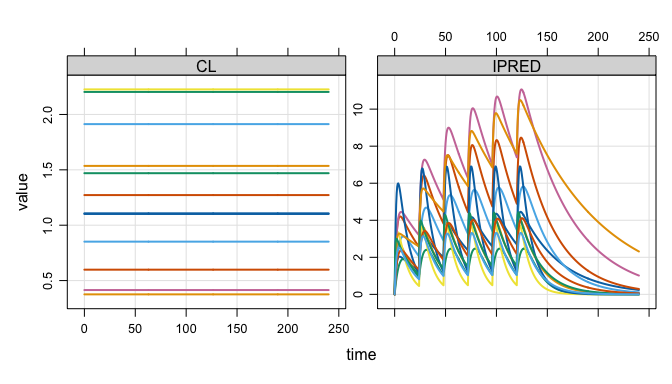
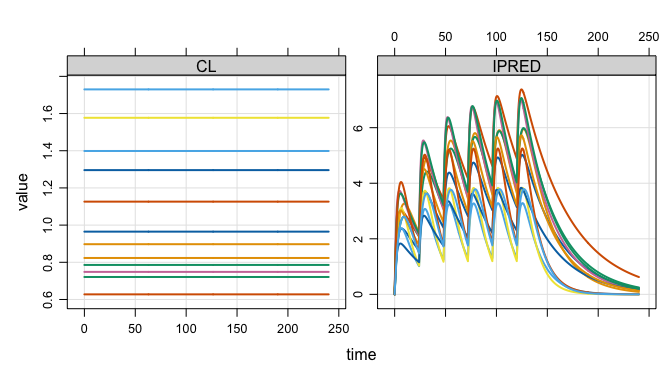
clean up doc

diff --git a/README.md b/README.md
@@ -60,15 +60,15 @@ out
 . Dim  : 1.4M x 4
 . Files: 1 [13.2 Mb]
 . Owner: yes (gc)
-.     ID time       CL     IPRED
-. 1:   1  0.0 1.107176 0.0000000
-. 2:   1  0.0 1.107176 0.0000000
-. 3:   1  0.5 1.107176 0.6880729
-. 4:   1  1.0 1.107176 1.1603151
-. 5:   1  1.5 1.107176 1.4818053
-. 6:   1  2.0 1.107176 1.6980308
-. 7:   1  2.5 1.107176 1.8407855
-. 8:   1  3.0 1.107176 1.9322914
+.     ID time        CL     IPRED
+. 1:   1  0.0 0.9648573 0.0000000
+. 2:   1  0.0 0.9648573 0.0000000
+. 3:   1  0.5 0.9648573 0.5279033
+. 4:   1  1.0 0.9648573 0.9509657
+. 5:   1  1.5 0.9648573 1.2886638
+. 6:   1  2.0 0.9648573 1.5568730
+. 7:   1  2.5 0.9648573 1.7685336
+. 8:   1  3.0 0.9648573 1.9341928
 ```
 
 ## Very lightweight simulation output object
@@ -79,14 +79,14 @@ disk.
 
 ``` r
 basename(out$files)
-. [1] "mrgsims-ds-106a418049b33.parquet"
+. [1] "mrgsims-ds-136b57a594b2d.parquet"
 ```
 
 This means there is almost nothing inside the object itself
 
 ``` r
 lobstr:::obj_size(out)
-. 293.54 kB
+. 293.65 kB
 
 dim(out)
 . [1] 1446000       4
@@ -124,23 +124,23 @@ head(out)
 . # A tibble: 6 × 4
 .      ID  time    CL IPRED
 .   <dbl> <dbl> <dbl> <dbl>
-. 1     1   0    1.11 0    
-. 2     1   0    1.11 0    
-. 3     1   0.5  1.11 0.688
-. 4     1   1    1.11 1.16 
-. 5     1   1.5  1.11 1.48 
-. 6     1   2    1.11 1.70
+. 1     1   0   0.965 0    
+. 2     1   0   0.965 0    
+. 3     1   0.5 0.965 0.528
+. 4     1   1   0.965 0.951
+. 5     1   1.5 0.965 1.29 
+. 6     1   2   0.965 1.56
 
 tail(out)
 . # A tibble: 6 × 4
 .      ID  time    CL IPRED
 .   <dbl> <dbl> <dbl> <dbl>
-. 1  3000  238. 0.929 0.389
-. 2  3000  238  0.929 0.385
-. 3  3000  238. 0.929 0.381
-. 4  3000  239  0.929 0.376
-. 5  3000  240. 0.929 0.372
-. 6  3000  240  0.929 0.368
+. 1  3000  238. 0.550 0.191
+. 2  3000  238  0.550 0.188
+. 3  3000  238. 0.550 0.184
+. 4  3000  239  0.550 0.181
+. 5  3000  240. 0.550 0.178
+. 6  3000  240  0.550 0.175
 
 dim(out)
 . [1] 1446000       4
@@ -154,16 +154,16 @@ as_tibble(out)
 . # A tibble: 1,446,000 × 4
 .       ID  time    CL IPRED
 .    <dbl> <dbl> <dbl> <dbl>
-.  1     1   0    1.11 0    
-.  2     1   0    1.11 0    
-.  3     1   0.5  1.11 0.688
-.  4     1   1    1.11 1.16 
-.  5     1   1.5  1.11 1.48 
-.  6     1   2    1.11 1.70 
-.  7     1   2.5  1.11 1.84 
-.  8     1   3    1.11 1.93 
-.  9     1   3.5  1.11 1.99 
-. 10     1   4    1.11 2.02 
+.  1     1   0   0.965 0    
+.  2     1   0   0.965 0    
+.  3     1   0.5 0.965 0.528
+.  4     1   1   0.965 0.951
+.  5     1   1.5 0.965 1.29 
+.  6     1   2   0.965 1.56 
+.  7     1   2.5 0.965 1.77 
+.  8     1   3   0.965 1.93 
+.  9     1   3.5 0.965 2.06 
+. 10     1   4   0.965 2.16 
 . # ℹ 1,445,990 more rows
 ```
 
@@ -189,16 +189,16 @@ as_duckdb_ds(out)
 . # Database: DuckDB 1.4.4 [kyleb@Darwin 24.6.0:R 4.5.3/:memory:]
 .       ID  time    CL IPRED
 .    <dbl> <dbl> <dbl> <dbl>
-.  1     1   0    1.11 0    
-.  2     1   0    1.11 0    
-.  3     1   0.5  1.11 0.688
-.  4     1   1    1.11 1.16 
-.  5     1   1.5  1.11 1.48 
-.  6     1   2    1.11 1.70 
-.  7     1   2.5  1.11 1.84 
-.  8     1   3    1.11 1.93 
-.  9     1   3.5  1.11 1.99 
-. 10     1   4    1.11 2.02 
+.  1     1   0   0.965 0    
+.  2     1   0   0.965 0    
+.  3     1   0.5 0.965 0.528
+.  4     1   1   0.965 0.951
+.  5     1   1.5 0.965 1.29 
+.  6     1   2   0.965 1.56 
+.  7     1   2.5 0.965 1.77 
+.  8     1   3   0.965 1.93 
+.  9     1   3.5 0.965 2.06 
+. 10     1   4   0.965 2.16 
 . # ℹ more rows
 ```
 
@@ -232,15 +232,15 @@ collect(dd)
 .     time  Mean     n
 .    <dbl> <dbl> <int>
 .  1   0    0     6000
-.  2   0.5  1.12  3000
-.  3   1    1.82  3000
-.  4   1.5  2.27  3000
-.  5   2    2.58  3000
-.  6   2.5  2.79  3000
-.  7   3    2.94  3000
-.  8   3.5  3.03  3000
-.  9   4    3.09  3000
-. 10   4.5  3.12  3000
+.  2   0.5  1.08  3000
+.  3   1    1.77  3000
+.  4   1.5  2.23  3000
+.  5   2    2.55  3000
+.  6   2.5  2.77  3000
+.  7   3    2.91  3000
+.  8   3.5  3.01  3000
+.  9   4    3.08  3000
+. 10   4.5  3.11  3000
 . # ℹ 471 more rows
 ```
 
@@ -268,20 +268,20 @@ out2
 . Dim  : 14.5M x 4
 . Files: 10 [131.8 Mb]
 . Owner: yes (gc)
-.     ID time       CL     IPRED
-. 1:   1  0.0 0.711861 0.0000000
-. 2:   1  0.0 0.711861 0.0000000
-. 3:   1  0.5 0.711861 0.6391556
-. 4:   1  1.0 0.711861 1.1436153
-. 5:   1  1.5 0.711861 1.5403107
-. 6:   1  2.0 0.711861 1.8508041
-. 7:   1  2.5 0.711861 2.0923592
-. 8:   1  3.0 0.711861 2.2787975
+.     ID time        CL     IPRED
+. 1:   1  0.0 0.4087804 0.0000000
+. 2:   1  0.0 0.4087804 0.0000000
+. 3:   1  0.5 0.4087804 0.1660721
+. 4:   1  1.0 0.4087804 0.3228486
+. 5:   1  1.5 0.4087804 0.4707932
+. 6:   1  2.0 0.4087804 0.6103471
+. 7:   1  2.5 0.4087804 0.7419299
+. 8:   1  3.0 0.4087804 0.8659402
 ```
 
 ``` r
 lobstr::obj_size(out2)
-. 296.64 kB
+. 296.81 kB
 ```
 
 ## Files on disk are automagically managed
@@ -291,11 +291,11 @@ All `arrow` files are stored in the `tempdir()` in parquet format
 ``` r
 list_temp()
 . 11 files [145 Mb]
-. - mrgsims-ds-106a418049b33.parquet
-. - mrgsims-ds-106e330367f29.parquet
+. - mrgsims-ds-136b57a594b2d.parquet
+. - mrgsims-ds-136f93697cf0f.parquet
 .    ...
-. - mrgsims-ds-106e718880349.parquet
-. - mrgsims-ds-106e729aafc06.parquet
+. - mrgsims-ds-136fd1998f902.parquet
+. - mrgsims-ds-136fda03ff6f.parquet
 ```
 
 This directory is eventually removed when the R session ends. Tools are
@@ -307,11 +307,11 @@ retain_temp(out2)
 
 list_temp()
 . 10 files [131.8 Mb]
-. - mrgsims-ds-106e330367f29.parquet
-. - mrgsims-ds-106e37c8d8961.parquet
+. - mrgsims-ds-136f93697cf0f.parquet
+. - mrgsims-ds-136f94c391131.parquet
 .    ...
-. - mrgsims-ds-106e718880349.parquet
-. - mrgsims-ds-106e729aafc06.parquet
+. - mrgsims-ds-136fd1998f902.parquet
+. - mrgsims-ds-136fda03ff6f.parquet
 ```
 
 We also put a finalizer on each object so that, when it goes out of
@@ -358,8 +358,8 @@ cleaned up.
 ``` r
 gc()
 .            used  (Mb) gc trigger  (Mb) limit (Mb) max used  (Mb)
-. Ncells  2308037 123.3    3828590 204.5         NA  3828590 204.5
-. Vcells 15723425 120.0   26766098 204.3      16384 22237995 169.7
+. Ncells  2308276 123.3    3828742 204.5         NA  3828742 204.5
+. Vcells 15723850 120.0   26766118 204.3      16384 22237732 169.7
 
 list_temp()
 . 2 files [26.4 Mb]
@@ -447,14 +447,14 @@ out[[1]]
 . Files: 1 [10.5 Kb]
 . Owner: no
 .     ID TIME        CL     IPRED
-. 1:   1  0.0 0.5206079 0.0000000
-. 2:   1  0.0 0.5206079 0.0000000
-. 3:   1  0.5 0.5206079 0.4599271
-. 4:   1  1.0 0.5206079 0.8587938
-. 5:   1  1.5 0.5206079 1.2041557
-. 6:   1  2.0 0.5206079 1.5026386
-. 7:   1  2.5 0.5206079 1.7600528
-. 8:   1  3.0 0.5206079 1.9814933
+. 1:   1  0.0 0.5554277 0.0000000
+. 2:   1  0.0 0.5554277 0.0000000
+. 3:   1  0.5 0.5554277 0.8066047
+. 4:   1  1.0 0.5554277 1.4129891
+. 5:   1  1.5 0.5554277 1.8670459
+. 6:   1  2.0 0.5554277 2.2052282
+. 7:   1  2.5 0.5554277 2.4552817
+. 8:   1  3.0 0.5554277 2.6383245
 . [mrgsim.ds] pointer and source pid refreshed.
 ```
 
@@ -484,14 +484,14 @@ out
 . Files: 3 [31.4 Kb]
 . Owner: yes (gc)
 .     ID TIME        CL     IPRED
-. 1:   1  0.0 0.5206079 0.0000000
-. 2:   1  0.0 0.5206079 0.0000000
-. 3:   1  0.5 0.5206079 0.4599271
-. 4:   1  1.0 0.5206079 0.8587938
-. 5:   1  1.5 0.5206079 1.2041557
-. 6:   1  2.0 0.5206079 1.5026386
-. 7:   1  2.5 0.5206079 1.7600528
-. 8:   1  3.0 0.5206079 1.9814933
+. 1:   1  0.0 0.5554277 0.0000000
+. 2:   1  0.0 0.5554277 0.0000000
+. 3:   1  0.5 0.5554277 0.8066047
+. 4:   1  1.0 0.5554277 1.4129891
+. 5:   1  1.5 0.5554277 1.8670459
+. 6:   1  2.0 0.5554277 2.2052282
+. 7:   1  2.5 0.5554277 2.4552817
+. 8:   1  3.0 0.5554277 2.6383245
 ```
 
 Now we have all three files collected in a single object that we can